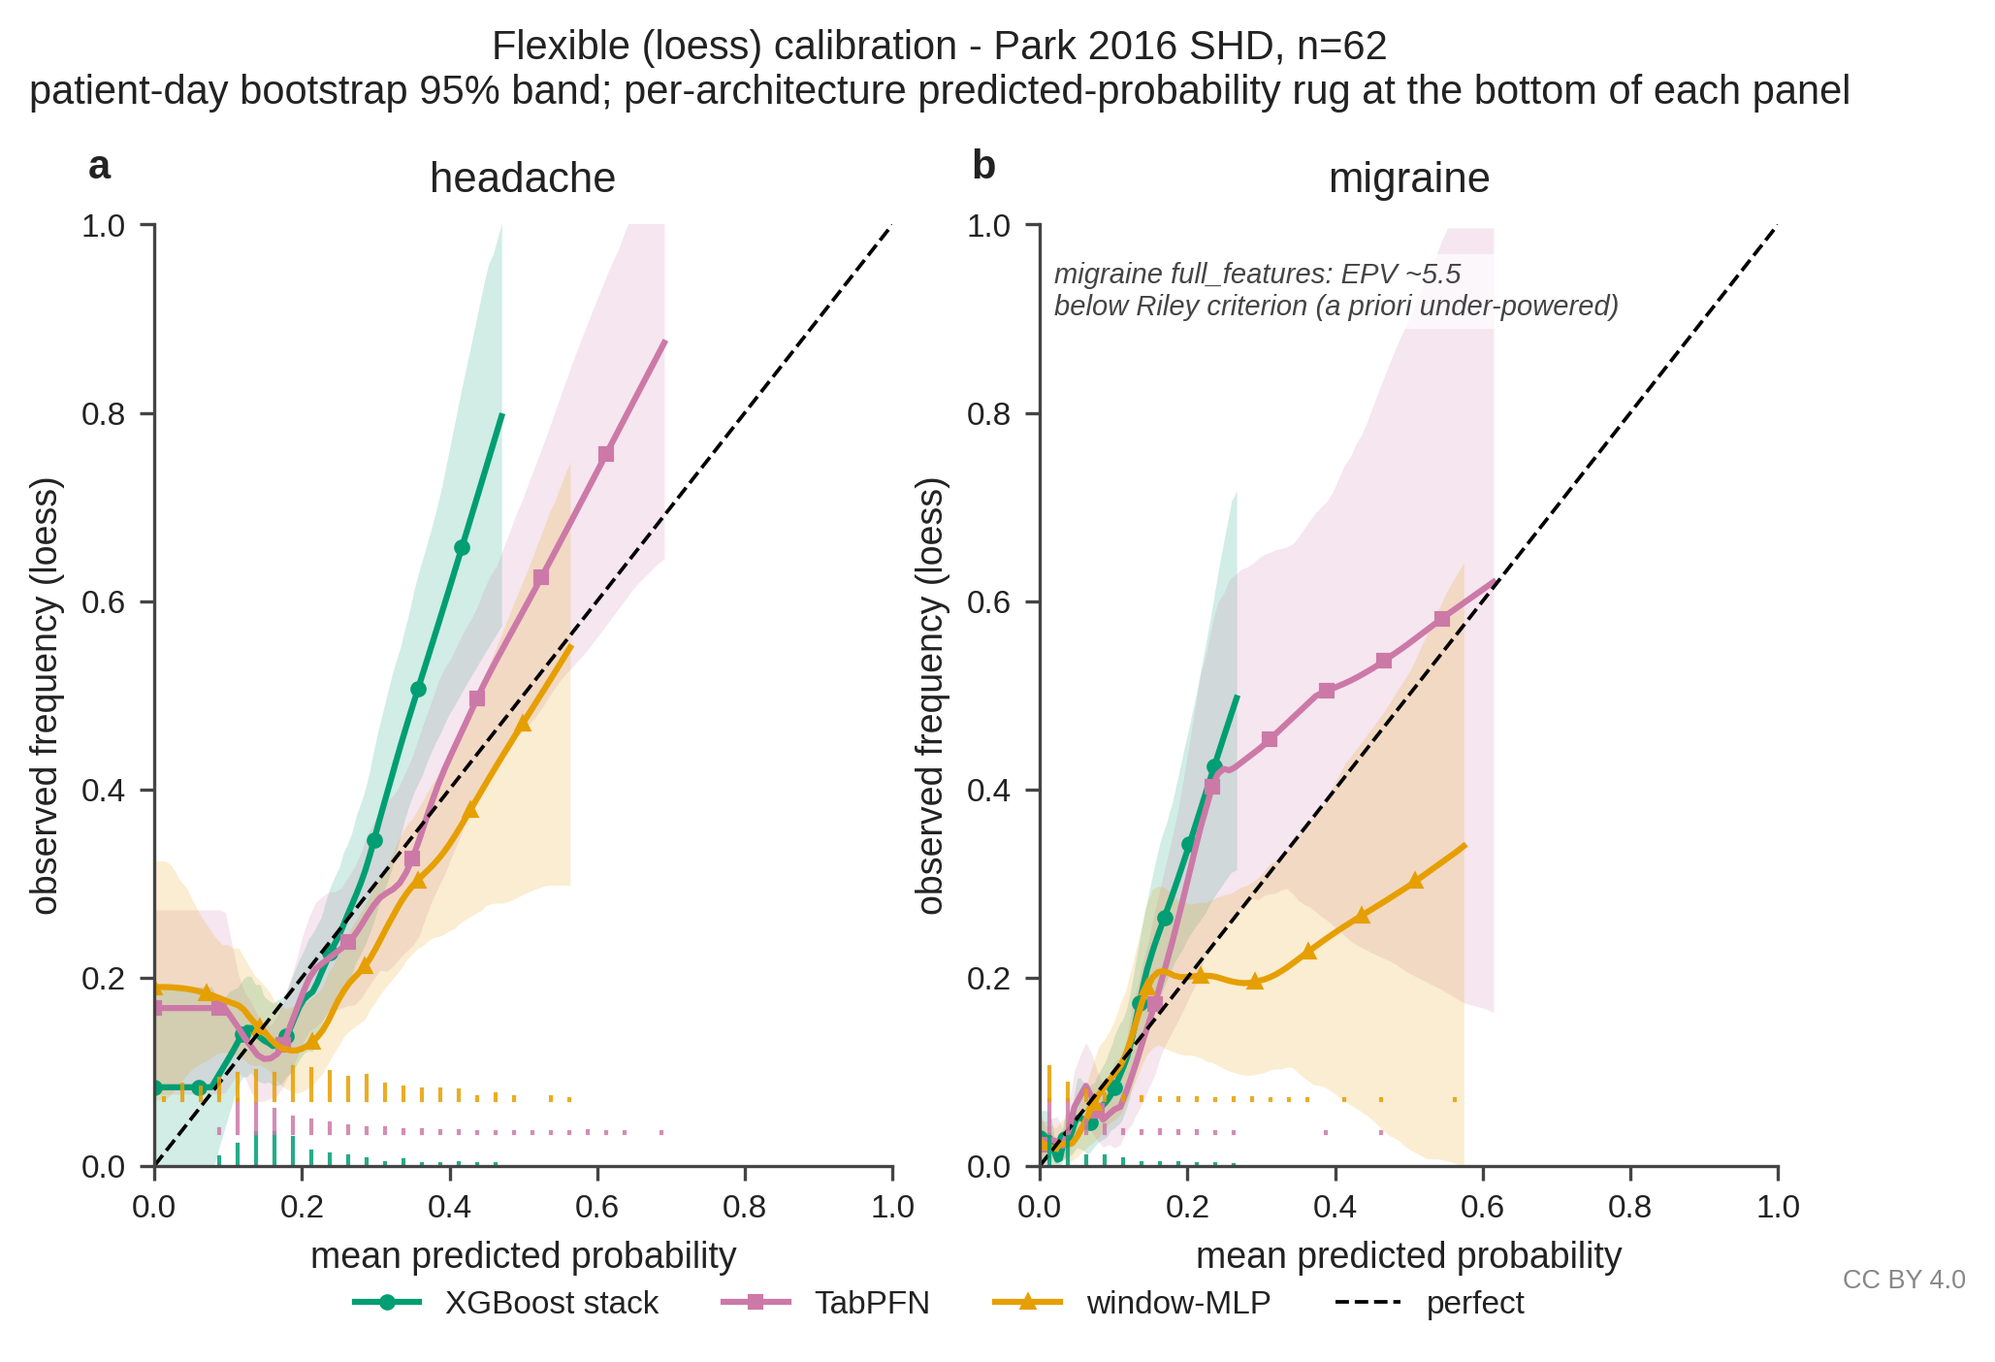
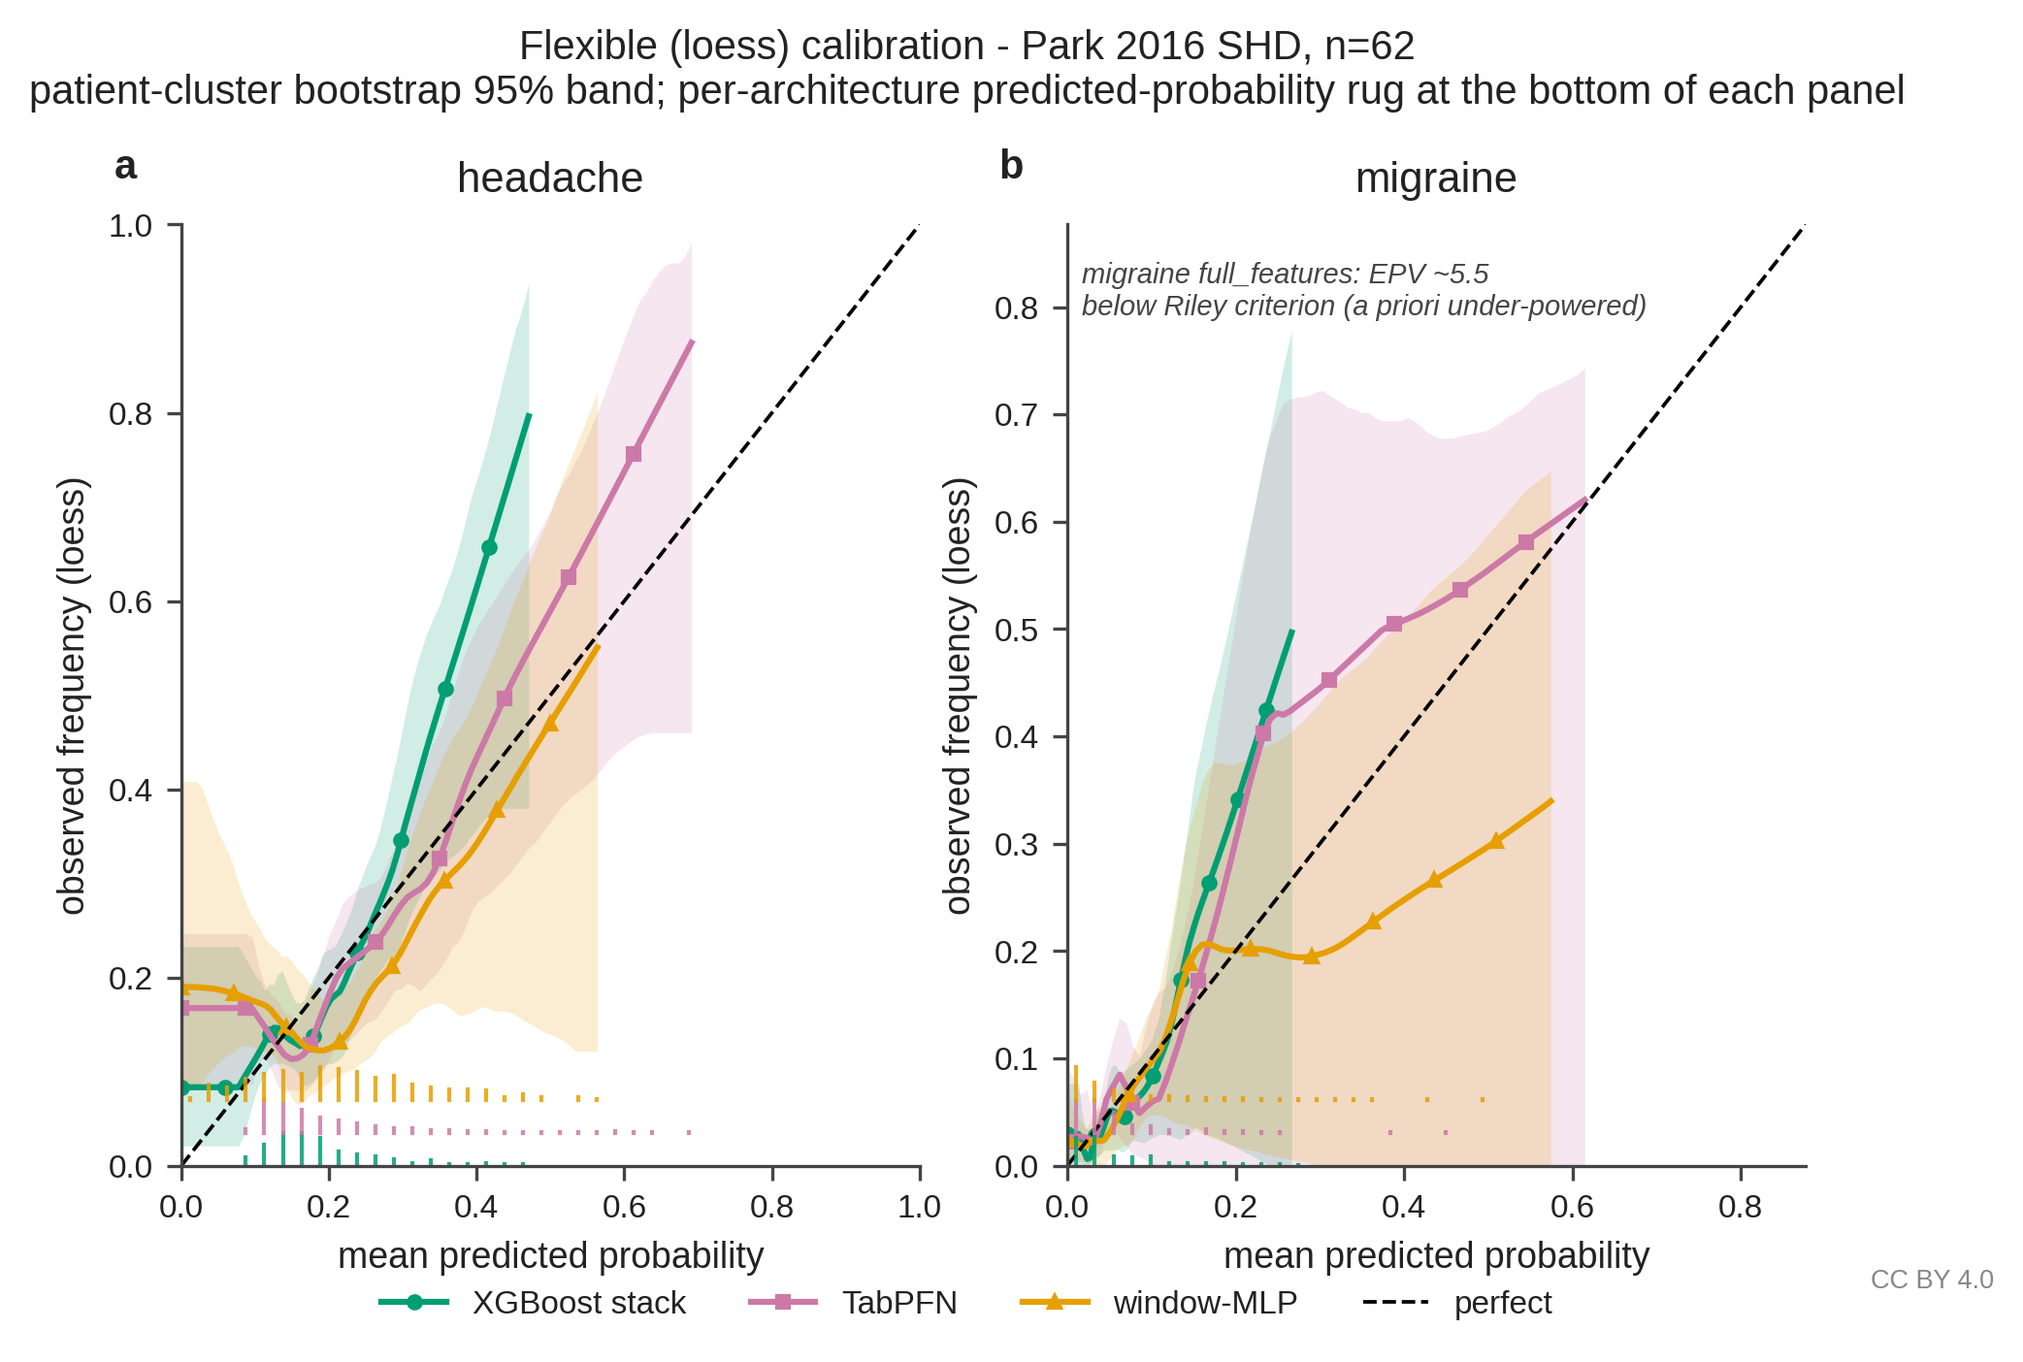
extended patient-cluster bootstrap to flexible loess calibration smooth; re-ran fig_c4

diff --git a/docs/methodAndResults_diagramCreatorScripts/fig_c4_calibration_flexible.py b/docs/methodAndResults_diagramCreatorScripts/fig_c4_calibration_flexible.py
@@ -4,8 +4,10 @@ Adds the moderate-calibration-level diagnostic of the Van Calster 2016
 calibration hierarchy on top of the weak-calibration (slope + CITL) reporting
 already in body §3.4 and the discrete-bin reliability diagram in fig_c3. The
 loess smooth is fit to the per-leaf out-of-sample (y, p) pairs at the
-composite-tracked migraine and headache headline cells; the patient-day
-bootstrap 95% band is drawn around the smooth so a reader can see at which
+composite-tracked migraine and headache headline cells; the patient-cluster
+bootstrap 95% band is drawn around the smooth (resampling unit = patient,
+matching the body §2.8 discipline for the headline-cell metrics under the
+§3.5 within-patient serial-dependence finding) so a reader can see at which
 predicted-probability regions the calibration is supported by data.
 
 The predicted-probability density is overlaid on a twinned y-axis per the
@@ -78,23 +80,33 @@ def _predict(leaf: Path):
             print(f"  SKIP {leaf.name}: {tail}")
             return None
         z = np.load(out, allow_pickle=True)
-        return z["y"].astype(float), z["p"].astype(float)
+        return z["y"].astype(float), z["p"].astype(float), z["pid"]
     finally:
         out.unlink(missing_ok=True)
 
 
-def _loess_with_band(y: np.ndarray, p: np.ndarray, grid: np.ndarray) -> dict:
-    """Return the loess point-estimate fit on grid + the patient-day bootstrap
-    2.5/97.5 band evaluated at the same grid points."""
+def _loess_with_band(y: np.ndarray, p: np.ndarray, grid: np.ndarray,
+                     patient_ids: np.ndarray) -> dict:
+    """Return the loess point-estimate fit on grid + the patient-cluster
+    bootstrap 2.5/97.5 band evaluated at the same grid points.
+
+    Patient-cluster resampling: sample unique patient_id values with
+    replacement, concatenate every row belonging to each sampled patient,
+    refit loess on the bootstrap sample. Matches the body §2.8 discipline
+    for the headline-cell metrics under the §3.5 within-patient serial
+    dependence."""
     smoothed = lowess(y, p, frac=LOWESS_FRAC, it=LOWESS_IT, return_sorted=True)
     smooth_grid = np.interp(grid, smoothed[:, 0], smoothed[:, 1])
 
-    n = len(p)
+    pid = np.asarray(patient_ids)
+    unique = np.unique(pid)
+    groups = {u: np.where(pid == u)[0] for u in unique}
     rng = np.random.default_rng(42)
     boot_curves = np.empty((N_BOOT, len(grid)))
     valid = 0
     for k in range(N_BOOT):
-        idx = rng.integers(0, n, size=n)
+        sampled = rng.choice(unique, size=len(unique), replace=True)
+        idx = np.concatenate([groups[u] for u in sampled])
         ys = y[idx]
         ps = p[idx]
         if ys.sum() == 0:
@@ -168,11 +180,11 @@ def main() -> None:
             r = _predict(leaf)
             if r is None:
                 continue
-            y, p = r
+            y, p, pid = r
             cached.append((label, y, p))
             p_max = float(p.max())
             grid = np.linspace(0.0, p_max, GRID_POINTS)
-            band = _loess_with_band(y, p, grid)
+            band = _loess_with_band(y, p, grid, patient_ids=pid)
             col = S.arch_color(label)
             ax.fill_between(grid, band["lo"], band["hi"], color=col, alpha=0.18, linewidth=0)
             ax.plot(grid, band["smooth"], color=col, lw=1.5, marker=mark.get(label, "o"),
@@ -214,7 +226,7 @@ def main() -> None:
     fig.legend(handles, labels, fontsize=8, ncol=4, loc="lower center",
                bbox_to_anchor=(0.5, -0.04), frameon=False)
     fig.suptitle("Flexible (loess) calibration - Park 2016 SHD, n=62\n"
-                 "patient-day bootstrap 95% band; per-architecture predicted-probability rug at the bottom of each panel",
+                 "patient-cluster bootstrap 95% band; per-architecture predicted-probability rug at the bottom of each panel",
                  y=1.04, fontsize=10)
     print("saved", S.save(fig, HERE / "figures" / "fig_c4_calibration_flexible"))
 

diff --git a/docs/body.md b/docs/body.md
@@ -64,7 +64,7 @@ Addition 5 evaluated three personalisation regimes sharing one logistic-regressi
 
 ### 2.8 Statistical comparison and reporting discipline
 
-Every metric was reported as `mean [95% CI]` from 1,000-iteration bootstrap. The headline-cell metrics in §3.2 (AUROC), §3.4 (calibration slope + CITL on the headline cells), and §3.7 (Brier skill against per-patient TRAIN-set climatology and decision-curve net benefit) use **patient-cluster bootstrap as primary** (resampling unit = patient: sample patient IDs with replacement, then concatenate every test-set row belonging to each sampled patient), which respects the Addition 3 within-patient serial dependence; patient-day-iid bootstrap CIs are reported parenthetically alongside as side-by-side sensitivity for comparability with the broader 488-cell grid which retains patient-day CIs throughout (the patient-cluster widening is concentrated at the headline cells where the substantive claim is direction-of-effect rather than equivalence, exactly where the patient-day-iid anti-conservatism is most consequential). The within-person C-statistic in §3.6 uses Hanley-McNeil within-patient variance + Paule-Mandel random-effects pooling rather than a row bootstrap, so the patient-cluster discipline is already inherent in the §3.6 reporting and is not re-applied as an additional layer. Cross-architecture comparisons used paired DeLong tests (Sun-Xu midrank implementation) with Benjamini-Hochberg false-discovery-rate correction across 18 documented contrasts and Bonferroni FWER correction on the full all-pairs cross-cell family for sensitivity. The contrast scope is frozen at Git tag `analysis-plan-frozen` pointing to the single commit (`e592bd3a` in `experiment/_eval/run_paired_delong.py`) that introduced the 18-test structure; the file has exactly one commit in its history so the contrast list has not been modified since. Disclosure timing: the headline-cell leaf models were trained ~12-14 days before this freeze (migraine XGB-HP020 on 2026-05-15, headache TabPFN-v2.6 on 2026-05-13), so cross-architecture AUROC magnitudes were visible during contrast-list design but the paired DeLong p-values themselves were not computed until after the freeze. No formal pre-registration (OSF / PROSPERO / ClinicalTrials.gov entry) exists per the secondary-data-reanalysis design; we use "documented" rather than "pre-specified" throughout to acknowledge this distinction. Paired DeLong assumes within-class independence; on patient-day data the assumption is not exact, but Type-I error inflation under the violation runs toward more significance, so the 0-of-166-pair null at the canonical headline cells is conservative against the assumption. Tie handling on post-Platt calibrated outputs used midrank averaging (Sun-Xu 2014). The TRIPOD+AI 27-item compliance trail per section is provided in supplementary material; the per-item map lives in `docs/paper_rigor_checklist.md`.
+Every metric was reported as `mean [95% CI]` from 1,000-iteration bootstrap. The headline-cell metrics in §3.2 (AUROC), §3.4 (calibration slope + CITL + flexible loess calibration smooth on the headline cells), and §3.7 (Brier skill against per-patient TRAIN-set climatology and decision-curve net benefit) use **patient-cluster bootstrap as primary** (resampling unit = patient: sample patient IDs with replacement, then concatenate every test-set row belonging to each sampled patient), which respects the Addition 3 within-patient serial dependence; patient-day-iid bootstrap CIs are reported parenthetically alongside as side-by-side sensitivity for comparability with the broader 488-cell grid which retains patient-day CIs throughout (the patient-cluster widening is concentrated at the headline cells where the substantive claim is direction-of-effect rather than equivalence, exactly where the patient-day-iid anti-conservatism is most consequential). The within-person C-statistic in §3.6 uses Hanley-McNeil within-patient variance + Paule-Mandel random-effects pooling rather than a row bootstrap, so the patient-cluster discipline is already inherent in the §3.6 reporting and is not re-applied as an additional layer. Cross-architecture comparisons used paired DeLong tests (Sun-Xu midrank implementation) with Benjamini-Hochberg false-discovery-rate correction across 18 documented contrasts and Bonferroni FWER correction on the full all-pairs cross-cell family for sensitivity. The contrast scope is frozen at Git tag `analysis-plan-frozen` pointing to the single commit (`e592bd3a` in `experiment/_eval/run_paired_delong.py`) that introduced the 18-test structure; the file has exactly one commit in its history so the contrast list has not been modified since. Disclosure timing: the headline-cell leaf models were trained ~12-14 days before this freeze (migraine XGB-HP020 on 2026-05-15, headache TabPFN-v2.6 on 2026-05-13), so cross-architecture AUROC magnitudes were visible during contrast-list design but the paired DeLong p-values themselves were not computed until after the freeze. No formal pre-registration (OSF / PROSPERO / ClinicalTrials.gov entry) exists per the secondary-data-reanalysis design; we use "documented" rather than "pre-specified" throughout to acknowledge this distinction. Paired DeLong assumes within-class independence; on patient-day data the assumption is not exact, but Type-I error inflation under the violation runs toward more significance, so the 0-of-166-pair null at the canonical headline cells is conservative against the assumption. Tie handling on post-Platt calibrated outputs used midrank averaging (Sun-Xu 2014). The TRIPOD+AI 27-item compliance trail per section is provided in supplementary material; the per-item map lives in `docs/paper_rigor_checklist.md`.
 
 ## 3. Results
 
@@ -82,7 +82,7 @@ Stratified splits inflated AUROC only on feature sets with history features (`fu
 
 ### 3.4 Calibration is fragile on the small or sparse cells
 
-Median cross-cell calibration slope was 0.64 (over-confident); on the headline cells specifically the migraine slope was 1.386 (95% CI 0.401-2.067 patient-cluster primary, 0.972-1.924 patient-day sensitivity) and the headache slope 1.094 (95% CI 0.594-1.429 patient-cluster, 0.764-1.453 patient-day sensitivity); both patient-cluster CIs include 1.0 with wider margins than the patient-day reading suggested, and the migraine point estimate still sits materially above unity. Calibration-in-the-large (CITL = mean(y) / mean(p), with 1.0 indicating no systematic bias) was 1.095 patient-cluster [0.554, 1.782] (patient-day [0.791, 1.419]) for migraine XGBoost, 1.140 [0.619, 1.591] (patient-day [0.831, 1.482]) for migraine TabPFN, 1.025 [0.805, 1.305] (patient-day [0.880, 1.180]) for headache XGBoost, and 0.978 [0.800, 1.190] (patient-day [0.840, 1.123]) for headache TabPFN; all four headline CITL CIs contained 1.0 under both bootstrap units, so the headline cells were not systematically over- or under-forecasting at the cohort level. Flexible (loess) calibration smooths at the two headline cells with patient-day bootstrap 95% bands (Figure 2) extend this weak-calibration reporting to the moderate-calibration level: the per-architecture smooths show how the observed positive rate tracks predicted probability across the data range, and a per-architecture predicted-probability rug at the bottom of each panel marks where the smooth is data-supported versus sparse-data-extrapolated at the high-p edge. Among comparator architectures on the migraine `full_features / 70_30 / chrono` cell, AutoTabPFN (`version_2-5-auto`) reached calibration slope 0.992 [0.642, 1.346], closer to 1.0 than both the migraine XGB-HP020 headline slope of 1.386 above and the migraine TabPFN-v2-5-finetuned slope of 0.964 [0.604, 1.346]; all three migraine slope CIs included 1.0, so the architectures did not separate at the CI level despite the point-estimate ordering. AutoTabPFN AUROC 0.745 [0.656, 0.825] sat within the XGB-HP020 AUROC CI [0.701, 0.873]. Across the 488-cell grid, 98 cells had a negative slope, the Platt-inversion fingerprint (the calibrator inverts when hyperparameter search overfits a leaky split and the fitted sigmoid takes a negative slope) of small-calibration-set overfitting. The pattern concentrated in HP-tuned XGBoost on stratified splits (where the inner CV's calibration sub-split is statistically thin) and on the sparse migraine patient-hold-out cells. TabPFN's single-forward-pass in-context inference did not exhibit this collapse: of 42 anti-predictive cells (hold-out AUROC < 0.45) across the 488-cell grid, 38 were `stacked_2xgb_meta_lr` and only four were TabPFN, all marginal. The calibration framing is the methodological reason this study reports both discrimination and calibration; reporting AUC alone hides the cells where the meta-learner's posterior collapses.
+Median cross-cell calibration slope was 0.64 (over-confident); on the headline cells specifically the migraine slope was 1.386 (95% CI 0.401-2.067 patient-cluster primary, 0.972-1.924 patient-day sensitivity) and the headache slope 1.094 (95% CI 0.594-1.429 patient-cluster, 0.764-1.453 patient-day sensitivity); both patient-cluster CIs include 1.0 with wider margins than the patient-day reading suggested, and the migraine point estimate still sits materially above unity. Calibration-in-the-large (CITL = mean(y) / mean(p), with 1.0 indicating no systematic bias) was 1.095 patient-cluster [0.554, 1.782] (patient-day [0.791, 1.419]) for migraine XGBoost, 1.140 [0.619, 1.591] (patient-day [0.831, 1.482]) for migraine TabPFN, 1.025 [0.805, 1.305] (patient-day [0.880, 1.180]) for headache XGBoost, and 0.978 [0.800, 1.190] (patient-day [0.840, 1.123]) for headache TabPFN; all four headline CITL CIs contained 1.0 under both bootstrap units, so the headline cells were not systematically over- or under-forecasting at the cohort level. Flexible (loess) calibration smooths at the two headline cells with patient-cluster bootstrap 95% bands (Figure 2) extend this weak-calibration reporting to the moderate-calibration level: the per-architecture smooths show how the observed positive rate tracks predicted probability across the data range, and a per-architecture predicted-probability rug at the bottom of each panel marks where the smooth is data-supported versus sparse-data-extrapolated at the high-p edge. Among comparator architectures on the migraine `full_features / 70_30 / chrono` cell, AutoTabPFN (`version_2-5-auto`) reached calibration slope 0.992 [0.642, 1.346], closer to 1.0 than both the migraine XGB-HP020 headline slope of 1.386 above and the migraine TabPFN-v2-5-finetuned slope of 0.964 [0.604, 1.346]; all three migraine slope CIs included 1.0, so the architectures did not separate at the CI level despite the point-estimate ordering. AutoTabPFN AUROC 0.745 [0.656, 0.825] sat within the XGB-HP020 AUROC CI [0.701, 0.873]. Across the 488-cell grid, 98 cells had a negative slope, the Platt-inversion fingerprint (the calibrator inverts when hyperparameter search overfits a leaky split and the fitted sigmoid takes a negative slope) of small-calibration-set overfitting. The pattern concentrated in HP-tuned XGBoost on stratified splits (where the inner CV's calibration sub-split is statistically thin) and on the sparse migraine patient-hold-out cells. TabPFN's single-forward-pass in-context inference did not exhibit this collapse: of 42 anti-predictive cells (hold-out AUROC < 0.45) across the 488-cell grid, 38 were `stacked_2xgb_meta_lr` and only four were TabPFN, all marginal. The calibration framing is the methodological reason this study reports both discrimination and calibration; reporting AUC alone hides the cells where the meta-learner's posterior collapses.
 
 ### 3.5 Temporal dependence justifies a sequence-model test but not its dominance
 
@@ -178,7 +178,7 @@ Figures are numbered in order of first appearance in the body. Each is rendered 
 | Number | Subject | Source script |
 |---|---|---|
 | Figure 1 | TRIPOD-style cohort flow diagram | `fig_a2_cohort_flow.py` |
-| Figure 2 | Flexible (loess) calibration smooths at the two headline cells with patient-day bootstrap 95% bands | `fig_c4_calibration_flexible.py` |
+| Figure 2 | Flexible (loess) calibration smooths at the two headline cells with patient-cluster bootstrap 95% bands | `fig_c4_calibration_flexible.py` |
 | Figure 3 | Per-patient AUROC distribution at the two non-hyperparameter-tuned 70/30 chronological cells used for the within-person measurement, sorted by patient against the pooled AUROC and Hanley-McNeil within-person C reference lines (headache TabPFN-v2.6 estimable on 57 of 63 patients; migraine TabPFN-v2.5-finetuned estimable on 19 of 63 patients at the five-positive floor) | `fig_c2_within_person.py` |
 | Figure 4 | Within-person calibration at the two headline cells (per-quartile observed vs predicted) | `fig_c5_within_person_calibration.py` |
 | Figure 5 | Decision-curve net benefit on both targets across the pre-specified 0.01-0.50 threshold band, patient-cluster bootstrap 95% CI bands. Two panels: headache panel (a) shows the headache architectures dominating treat-all and treat-none at point-estimate net benefit +0.05 to +0.20 across the band, with patient-cluster CI bands fully above zero in the clinically plausible low-threshold sub-band t = 0.01-0.10 and CI bands crossing zero from t = 0.20 (window-MLP first) and all three crossing by t = 0.30; migraine panel (b) shows migraine net benefit near zero with patient-cluster CI bands crossing zero at every threshold for all three architectures | `fig_d3_decision_curve.py` |
